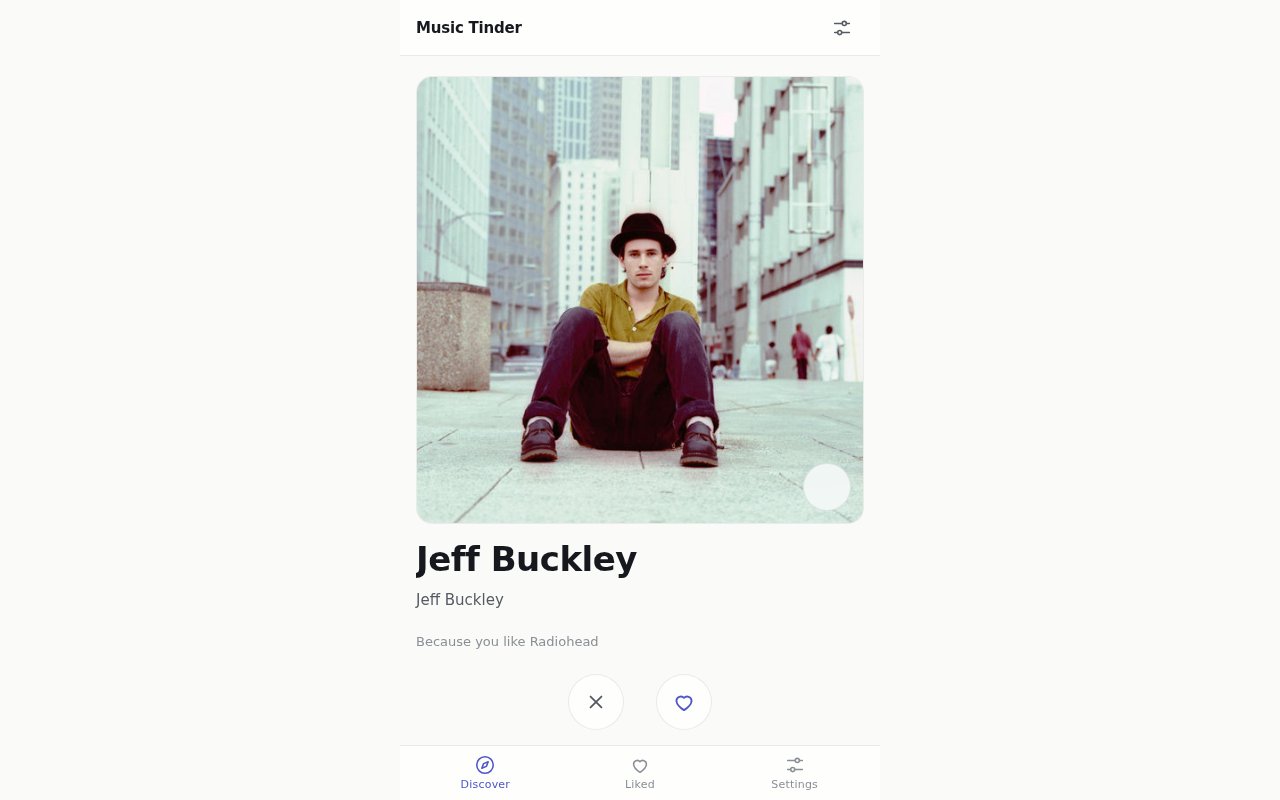
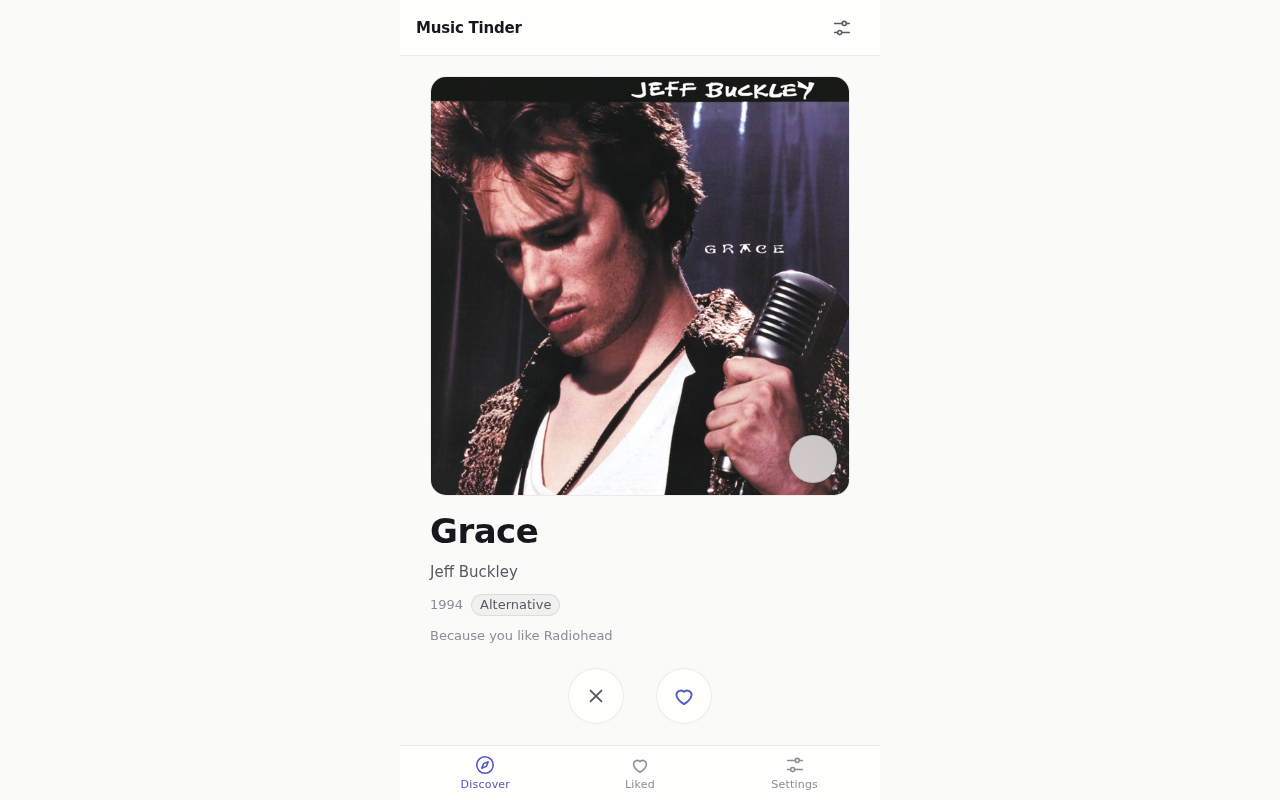
test(discovery): cover album cards with year and chips; keep the deck clear of the tab bar
Related-artist lookups are served inside the spec (the shared fixture only
knows seed anchors), so the dealt card now proves artwork, title, creator,
year, chips and the because line. The card stack is capped by viewport height
and clips its hidden prefetch buffer so short desktop windows stop overlapping
the fixed tab bar and stop growing the page.

Changed region(s): [[0.3125, 0.0938, 0.6875, 0.8125]]

diff --git a/e2e/discovery.spec.ts b/e2e/discovery.spec.ts
@@ -26,11 +26,16 @@ interface StoredState {
   taste: { chips: Record<string, number>; creators: Record<string, number> };
 }
 
-async function seedDeck(page: Page, seen: string[] = []): Promise<void> {
+interface SeedOptions {
+  cardType?: 'artist' | 'album' | 'song';
+  seen?: string[];
+}
+
+async function seedDeck(page: Page, { cardType = 'artist', seen = [] }: SeedOptions = {}): Promise<void> {
   const persisted = {
     state: {
       seeds: [SEED],
-      settings: { musicApp: 'spotify', sound: true, theme: 'system', cardType: 'artist' },
+      settings: { musicApp: 'spotify', sound: true, theme: 'system', cardType },
       taste: { chips: {}, creators: {}, origins: {} },
       liked: [],
       seen,
@@ -46,6 +51,74 @@ async function seedDeck(page: Page, seen: string[] = []): Promise<void> {
   }, JSON.stringify(persisted));
 }
 
+// The shared fixture only serves the seed anchors to iTunes; album/song cards
+// need the related artists resolved too. Registered after mockCatalog, so this
+// handler runs first and falls back for everything it does not own.
+const RELATED_ARTISTS: Record<string, { itunesId: number; genre: string }> = {
+  'Glass Harbour': { itunesId: 7101, genre: 'Electronic' },
+  'Slow Machines': { itunesId: 7102, genre: 'Electronic' },
+  'Neon Field': { itunesId: 7103, genre: 'Dance' },
+  'Paper Satellites': { itunesId: 7104, genre: 'Ambient' },
+  'Low Atlas': { itunesId: 7107, genre: 'Indie' },
+};
+
+async function mockRelatedArtistLookups(page: Page): Promise<void> {
+  await page.route('https://itunes.apple.com/**', async (route) => {
+    const url = new URL(route.request().url());
+    const term = url.searchParams.get('term') ?? '';
+    const artist = RELATED_ARTISTS[term];
+    const json = (payload: unknown) =>
+      route.fulfill({
+        status: 200,
+        headers: { 'content-type': 'application/json', 'access-control-allow-origin': '*' },
+        body: JSON.stringify(payload),
+      });
+
+    if (url.pathname === '/search' && artist) {
+      await json({
+        resultCount: 1,
+        results: [
+          {
+            wrapperType: 'artist',
+            artistType: 'Artist',
+            artistId: artist.itunesId,
+            artistName: term,
+            primaryGenreName: artist.genre,
+          },
+        ],
+      });
+      return;
+    }
+
+    const album = Object.entries(RELATED_ARTISTS).find(
+      ([, item]) => item.itunesId === Number(url.searchParams.get('id')),
+    );
+    if (url.pathname === '/lookup' && url.searchParams.get('entity') === 'album' && album) {
+      const [name, item] = album;
+      await json({
+        resultCount: 1,
+        results: [
+          {
+            wrapperType: 'collection',
+            collectionType: 'Album',
+            collectionId: item.itunesId * 10 + 1,
+            collectionName: `${name} No. 1`,
+            artistId: item.itunesId,
+            artistName: name,
+            primaryGenreName: item.genre,
+            releaseDate: '2022-01-01T00:00:00Z',
+            artworkUrl100: `https://cdn.example.test/art/${item.itunesId}.jpg`,
+            collectionViewUrl: `https://music.apple.com/album/${item.itunesId * 10 + 1}`,
+          },
+        ],
+      });
+      return;
+    }
+
+    await route.fallback();
+  });
+}
+
 const stored = (page: Page): Promise<StoredState | null> =>
   page.evaluate(() => {
     const raw = localStorage.getItem('mt:v1');
@@ -58,10 +131,11 @@ test.beforeEach(async ({ page }) => {
   await mockCatalog(page);
 });
 
-test('deals a card with artwork, title, creator and a because line, and prefetches the next cards', async ({
+test('deals a card with artwork, title, creator, year, chips and a because line, and prefetches the next cards', async ({
   page,
 }) => {
-  await seedDeck(page);
+  await mockRelatedArtistLookups(page);
+  await seedDeck(page, { cardType: 'album' });
   await page.goto('/');
 
   const current = page.locator('.deck__current');
@@ -70,6 +144,8 @@ test('deals a card with artwork, title, creator and a because line, and prefetch
   await expect(artwork).toHaveAttribute('alt', / — /);
   await expect(current.getByRole('heading', { level: 2 })).toHaveText(/\S/);
   await expect(current.locator('.card__creator')).toHaveText(/\S/);
+  await expect(current.locator('.card__year')).toHaveText(/^\d{4}$/);
+  await expect(current.locator('.tag')).not.toHaveCount(0);
   await expect(current.locator('.card__because')).toContainText(/because you like/i);
 
   // At least three upcoming cards are already in the DOM behind the current one.
@@ -126,7 +202,7 @@ test('likes and skips by arrow key and by button, recording each reaction and de
 });
 
 test('ends quietly when nothing unseen is left and Change seeds returns to Setup', async ({ page }) => {
-  await seedDeck(page, RELATED_KEYS);
+  await seedDeck(page, { seen: RELATED_KEYS });
   await page.goto('/');
 
   await expect(

diff --git a/src/ui/screens/discovery.css b/src/ui/screens/discovery.css
@@ -6,6 +6,10 @@
 
 .deck__stack {
   position: relative;
+  /* Keep the card and its controls clear of the fixed tab bar on short
+     viewports; on a phone the cap is wider than the column and does nothing. */
+  max-width: min(100%, max(240px, calc(100svh - 380px)));
+  margin-inline: auto;
 }
 
 /* The next cards are laid out but invisible: they are the prefetch buffer, so
@@ -13,6 +17,7 @@
 .deck__upcoming {
   position: absolute;
   inset: 0;
+  overflow: hidden;
   visibility: hidden;
   pointer-events: none;
 }
